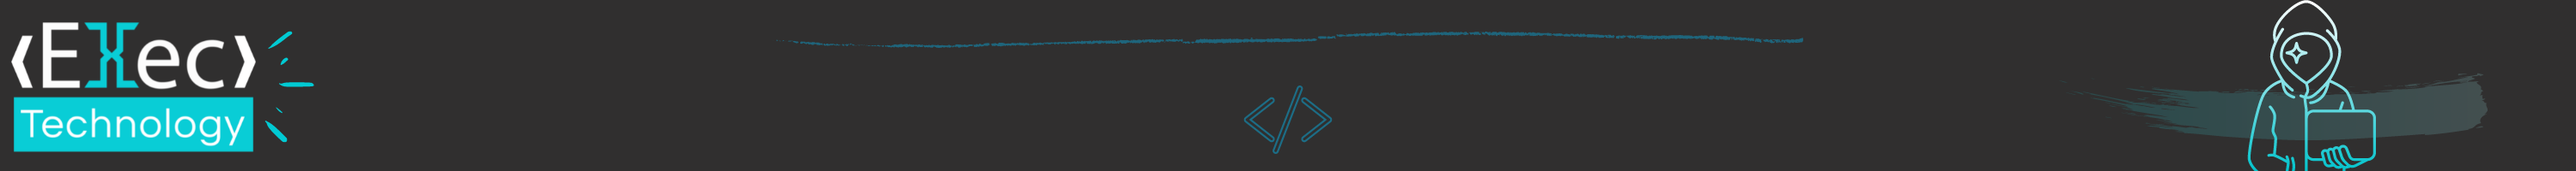
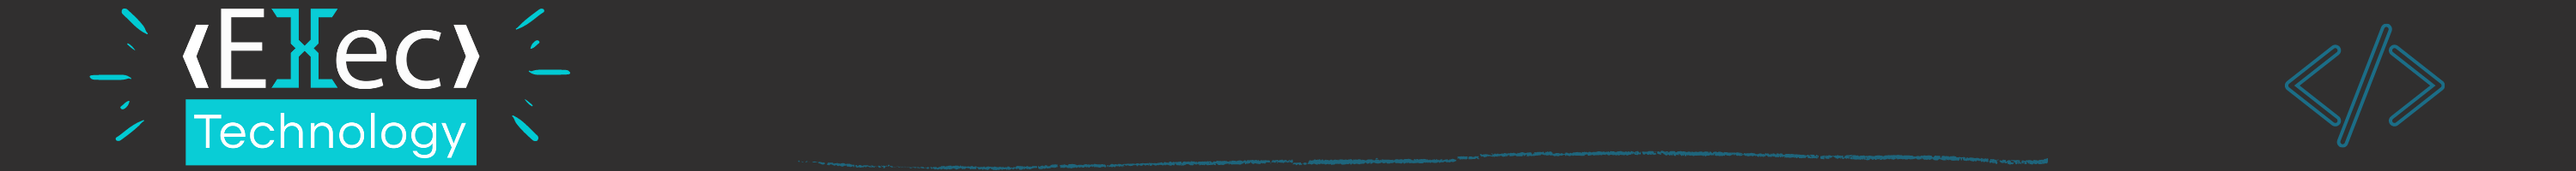
Quase finalizando o site, falta apenas alguns ajustes

diff --git a/index.html b/index.html
@@ -10,18 +10,17 @@
         <title>Exec Technology</title>
     </head>
     <body>
-        <nav>
-            <div><a class="home" href="#"><img src="icon/home.png" alt="home" title="Home"></a></div>
-            <a href="#">serviços</a>
-            <a href="#">trabalhos</a>
-            <a href="#">agendamento</a>
-            <a href="#">contatos</a>
-        </nav> 
-        <header> 
+        <header>    
             <img id="banner" src="img/banner.png" alt="banner">
-        </header> 
+        </header>
+        <nav>
+            <a class="menu" href="index.html"><img src="icon/home.png" alt="home" title="Home"></a>
+            <a class="menu" href="#">serviços</a>
+            <a class="menu" href="#">trabalhos</a>
+            <a class="menu" href="#">agendamentos</a>
+            <a class="menu" href="#">contatos</a>
+        </nav> 
         <article>
-            <div id="intro">
                 <h1>Exec Technology</h1>
                 <p>
                     Olá, somos a Exec Technology uma pequena empresa entusiasta de tecnologia, queremos sempre trazer conteúdos voltado à essa área que é bem dirversa e cada dia evolui mais e nos surpreende.
@@ -32,30 +31,24 @@
                 <p>
                     Somos também aberto ao publico, damos espaço para você fazer parcerias conosco para desenvolver projetos ou até mesmo concertar sua máquica, apenas, entre em contato com a gente que vamos te responder. Somos independente e não visamos lucro, todos os trabalhos desenvolvidos aqui na Exec é totalmente grátuito, aberto para resolver seu problema, para desenvolver seu projeto, fazer assistência social, etc.
                 </p>
-            </div>
-            <div id="img-intro">
-                <img src="img/estilo.png" alt="exec.technology">
-            </div>
         </article>
-        <hr> <!--linha horizontal-->
-        <section>
+        <section id="servico">
             <h2>Serviços</h2>
             <p>
                 Atualmente trabalhamos em algumas áreas da tecnologia da informação, a seguir algumas delas;
             </p>
             <ul>
-                <li>Suporte e manutenção</li>
-                <li>desenvolvimento de sistemas</li>
-                <li>limpeza de máquina</li>
-                <li>consultorias</li>
-                <li>grupo de ideias</li>
-                <li>eventos de tecnologia</li>
+                <li>Suporte e Manutenção</li>
+                <li>Desenvolvimento de Sistemas</li>
+                <li>Limpeza de Máquina</li>
+                <li>Consultorias</li>
+                <li>Grupo de Ideias</li>
+                <li>Eventos de Tecnologia</li>
             </ul>
         </section>
-            <hr>
         <h2>Trabalhos</h2>
         <p>
-            Hodiernamente, já disponibilizamos vários contúdos da área em nossas redes socias, veja a seguir;
+            Já disponibilizamos vários contúdos em nossas redes socias, veja a seguir;
         </p>
         <div id="container">
             <div class="card">
@@ -88,11 +81,11 @@
             </div>
         </div>
         <hr>
-        <div>
+        <section id="comunidade">
             <h2>Faça</h2>
             <p>Postamos nossos conteúdos no instragram;</p>
-            <div id="comunidade">
-                <div id="text-comunidade">
+            <div id="container-comun">
+                <div class="comun">
                     <p>
                         Os conteudos de multimidia é produzido pela própria exec, damos prioridade para conteúdos autorais.
                         Todas as máquinas utilizadas nos vídeos são disponibilizada da própria comunidade da exec.
@@ -100,18 +93,21 @@
                         Faça seu agendamento clicando o botão a baixo;
                     </p>
                 </div>
-                <div id="video-comunidade">       
+                <div class="comun">      
                     <video src="midia/midia.mp4" width="60%" type="video/mp4" controls loop></video>
                 </div>
             </div> 
-        </div>      
-        <hr>
+        </section>      
         <footer>
-            <a href="https://www.instagram.com/exec.tec/?hl=en" target="_blank"><img src="icon/instagram.png" alt="Instagram" title="Instagram"></a>
-            <a href="mailto:ademar_coosta@hotmail.com?subject=Contato" title="E-mail"> <img src="icon/marketing-de-email.png" alt="Email"></a>
-            <a href="https://www.linkedin.com/in/ademar-costa-264612202/" target="_blank" title="Linkedin"><img src="icon/linkedin.png" alt="Linkedin"></a>
-            <a href="https://github.com/ademar-costa" target="_blank" title="GitHub"><img src="icon/github.png" alt="GitHub" ></a>
-            <p>Desenvolvido por Ademar Costa - 2022</p>
+            <div>
+                <p>Desenvolvido por <a href="http://instagram.com/ademar_costa" target="_blank">Ademar Costa</a>- 2022</p>
+            </div>
+            <div>
+                <a href="https://www.linkedin.com/in/ademar-costa-264612202/" target="_blank" title="Linkedin"><img src="icon/linkedin.png" alt="Linkedin"></a>
+                <a href="https://github.com/ademar-costa" target="_blank" title="GitHub"><img src="icon/github.png" alt="GitHub" ></a>
+                <a href="mailto:ademar_coosta@hotmail.com?subject=Contato" title="E-mail"> <img src="icon/marketing-de-email.png" alt="Email"></a>
+                <a href="https://www.instagram.com/exec.tec/?hl=en" target="_blank"><img src="icon/instagram.png" alt="Instagram" title="Instagram"></a>   
+            </div>
         </footer>
     </body>
 </html>

diff --git a/style.css b/style.css
@@ -26,42 +26,39 @@ p{
     font-family: 'Roboto', sans-serif;
     margin: 15px;
     text-align: justify;
-    text-indent: 10px;
     line-height: 15px;
 }
-article{
-    display: flex;
-    justify-content: center;
-    padding: 12px 100px;
-    
+header, #banner{
+    width: 100%;
+    height: 90px;
 }
+
 nav{/* Barra de Navegação*/
     background-color: #302F2F;
-    overflow: hidden;
-    width: 100%;
-    height: 30%;
+	padding: 10px;
+    align-items: center;
+    display: flex;
 }
-nav .home{
-    float: left;
-    display: block;
-    padding: 0%;
-    margin: 0 0 0 76px;
-}
-nav, a{
+nav .menu{
+    font-weight: bold;
     color: white;
-    float: right;
     text-decoration: none;
     padding: 0%;
     margin: 0 0 0 20px;
-    font-family: 'Coda', cursive;
+    font-family: 'Roboto', sans-serif;
 }
 
 nav a:hover{
     transition: 1s;
     color: #00C2CB;
 }
-header, #banner{
-    width: 100%;
+article{
+    justify-content: center;
+    background-color: #fff;
+    margin: 50px 180px 60px 180px;
+    padding: 10px;
+    border-radius: 5px;
+    box-shadow: 2px 2px 7px #000000;
 }
 #formulario{
     padding: 30px 0;
@@ -92,7 +89,7 @@ label{
     color: #212121;
     
 }
-#botoes{
+#botoes{/*Botões da página de agendamento "AGENDAR e CANCELAR"*/
     display: flex;
     margin: 30px;
 }
@@ -106,17 +103,32 @@ input[type="submit"], input[type="reset"]{
 input[type="reset"]{
     background-color: #F47E7E;
 }
-#intro{
-    width: 40%;
-    padding-right: 100px;
-    padding-top: 50px;
+
+#servico{/*Serviços*/
+	background-color: #302F2F;
+    padding: 20px 0 35px 0;
 }
-#img-intro{
-    
-}    
+#servico h2{
+	color: #00C2CB;
+}
+#servico p{
+	color: #fff;
+	margin-top: 15px;
+}
+ul{
+	list-style-type: circle;
+	padding: 20px  50px;
+}
+
+li{
+	font: 1.2rem 'Roboto', sans-serif;
+	color: #FFF;
+	margin-bottom: 10px;
+}  
 #container{/*Trabalhos*/
     display: flex;
     justify-content: center;
+    padding: 20px 0 35px 0;
 }
 .card{
     background-color: #fff;
@@ -132,31 +144,42 @@ input[type="reset"]{
     padding: 20px;
     text-align: center;
 }
-.card:hover{
-    transition: 1s;
-    border-radius: 5px;
-    box-shadow: 2px 2px 7px #00C2CB;
-}
-/*section{
-    background-color: #302F2F;
-    color: #fff;
-    padding: 100px ;
-}*/
 /*div de video*/
-#comunidade{
 
+#comunidade p{
+    text-align: justify;
 }
-#text-comunidade{
- 
+#container-comun{
+    display: flex;
 }
-#video-comunidade{
-
+.comun{
+    padding: 50px;
 }
 video{
-   
+    width: 320px;
+    height: 320px;
 }
 footer{
     background-color:#302F2F; 
     padding: 50px 200px;
     color: #fff;
+    display: flex;
+    align-items: center;
+}
+
+footer, a{
+    padding: 3px; 
+}
+
+footer p{
+    padding-left: 100px;
+    padding-right: 700px;
+}
+footer :link{
+    color: #00C2CB; 
+    text-decoration: none;
+}
+footer :visited {
+    color: rgb(156, 194, 209);
+    text-decoration: none;
 }

diff --git a/agendamentos.html b/agendamentos.html
@@ -6,19 +6,20 @@
         <meta name="keywords" content="tecnologia, suporte, manuteção, desenvolvimento, consultoria">
         <meta name="description" content="Mundo da Tecnologia">
         <link rel="stylesheet" href="style.css">
+        <link rel="shortcut icon" href="icon/favicon.png">
         <title>Agendamentos</title>
     </head>
     <body>
-        <nav>
-            <div><a class="home" href="#">HOME</a></div>
-            <a href="#">serviços</a>
-            <a href="#">trabalhos</a>
-            <a href="#">agaendamentos</a>
-            <a href="#">contatos</a>
-        </nav>
         <header>    
             <img id="banner" src="img/banner.png" alt="banner">
         </header>
+        <nav>
+            <a class="menu" href="index.html"><img src="icon/home.png" alt="home" title="Home"></a>
+            <a class="menu" href="#">serviços</a>
+            <a class="menu" href="#">trabalhos</a>
+            <a class="menu" href="#">agendamentos</a>
+            <a class="menu" href="#">contatos</a>
+        </nav>
         <section id="formulario">
             <h1>Agendamentos</h1>
             <p>
@@ -56,11 +57,15 @@
             </form>
         </section>
         <footer>
-            <a href="https://www.instagram.com/exec.tec/?hl=en" target="_blank"><img src="icon/instagram.png" alt="Instagram" title="Instagram"></a>
-            <a href="mailto:ademar_coosta@hotmail.com?subject=Contato" title="E-mail"> <img src="icon/marketing-de-email.png" alt="Email"></a>
-            <a href="https://www.linkedin.com/in/ademar-costa-264612202/" target="_blank" title="Linkedin"><img src="icon/linkedin.png" alt="Linkedin"></a>
-            <a href="https://github.com/ademar-costa" target="_blank" title="GitHub"><img src="icon/github.png" alt="GitHub" ></a>
-            <p>Desenvolvido por Ademar Costa - 2022</p>
+            <div>
+                <p>Desenvolvido por <a href="http://instagram.com/ademar_costa" target="_blank">Ademar Costa</a>- 2022</p>
+            </div>
+            <div>
+                <a href="https://www.linkedin.com/in/ademar-costa-264612202/" target="_blank" title="Linkedin"><img src="icon/linkedin.png" alt="Linkedin"></a>
+                <a href="https://github.com/ademar-costa" target="_blank" title="GitHub"><img src="icon/github.png" alt="GitHub" ></a>
+                <a href="mailto:ademar_coosta@hotmail.com?subject=Contato" title="E-mail"> <img src="icon/marketing-de-email.png" alt="Email"></a>
+                <a href="https://www.instagram.com/exec.tec/?hl=en" target="_blank"><img src="icon/instagram.png" alt="Instagram" title="Instagram"></a>   
+            </div>
         </footer>
     </body>
 </html>
